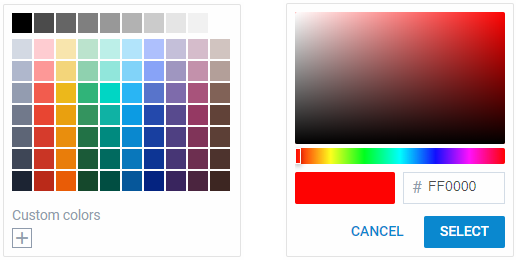
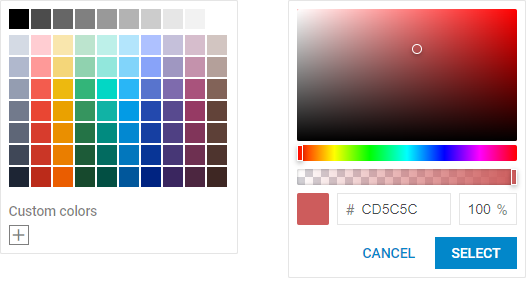
[add] transparency Colorpicker prop, update guides

diff --git a/sidebars.js b/sidebars.js
@@ -396,6 +396,7 @@ module.exports = {
                     "colorpicker/api/colorpicker_palette_config",
                     "colorpicker/api/colorpicker_paletteonly_config",
                     "colorpicker/api/colorpicker_pickeronly_config",
+                    "colorpicker/api/colorpicker_transparency_config",
                     "colorpicker/api/colorpicker_width_config",
                   ],
                 },

diff --git a/docs/colorpicker/api/colorpicker_transparency_config.md b/docs/colorpicker/api/colorpicker_transparency_config.md
@@ -1,0 +1,24 @@
+---
+sidebar_label: transparency
+title: JavaScript Colorpicker - transparency Config 
+description: You can explore the transparency config of Colorpicker in the documentation of the DHTMLX JavaScript UI library. Browse developer guides and API reference, try out code examples and live demos, and download a free 30-day evaluation version of DHTMLX Suite.
+---
+
+# transparency
+
+@short: Optional. Defines whether the transparency scale is displayed in the picker mode
+
+@signature: {'transparency?: boolean;'}
+
+@default: true
+
+@example:
+const colorpicker = new dhx.Colorpicker("colorpicker_container",{
+	transparency: false
+});
+
+@descr: 
+
+**Related sample**: [Colorpicker. Disable color transparency](https://snippet.dhtmlx.com/ewgu0aps)
+
+

diff --git a/docs/colorpicker/configuration.md b/docs/colorpicker/configuration.md
@@ -119,3 +119,18 @@ const colorpicker = new dhx.Colorpicker("colorpicker_container", {
     width: "300px"              
 });
 ~~~
+
+## Color transparency
+
+The Colorpicker component provides the possibility to set the necessary color transparency in the "picker" mode by pulling the handle on the transparency scale. This feature is enabled by default. To switch it off, set the [transparency](colorpicker/api/colorpicker_transparency_config.md) configuration option to *false*:
+
+~~~js
+const colorpicker = new dhx.Colorpicker("colorpicker", {
+    mode: "picker",
+    transparency: false
+});
+~~~
+
+![](../assets/colorpicker/colorpicker_transparency.png)
+
+**Related sample**: [Colorpicker. Disable color transparency](https://snippet.dhtmlx.com/ewgu0aps)

diff --git a/docs/colorpicker/api/api_overview.md b/docs/colorpicker/api/api_overview.md
@@ -42,4 +42,5 @@ description: You can explore the API of Colorpicker in the documentation of the 
 | [](colorpicker/api/colorpicker_palette_config.md)      | @getshort(colorpicker/api/colorpicker_palette_config.md)      |
 | [](colorpicker/api/colorpicker_paletteonly_config.md)  | @getshort(colorpicker/api/colorpicker_paletteonly_config.md)  |
 | [](colorpicker/api/colorpicker_pickeronly_config.md)   | @getshort(colorpicker/api/colorpicker_pickeronly_config.md)   |
+| [](colorpicker/api/colorpicker_transparency_config.md) | @getshort(colorpicker/api/colorpicker_transparency_config.md) |
 | [](colorpicker/api/colorpicker_width_config.md)        | @getshort(colorpicker/api/colorpicker_width_config.md)        |

diff --git a/docs/whatsnew.md b/docs/whatsnew.md
@@ -19,7 +19,7 @@ Released on October 23, 2023
 
 #### ColorPicker
 
-- The ability to adjust transparency
+- The ability to adjust the [color transparency](colorpicker/configuration.md#color-transparency)
 
 #### Grid/TreeGrid
 
@@ -33,7 +33,9 @@ Released on October 23, 2023
 
 ### Fixes
 
+- Form. Fix the absence of the bottom margin at the Container control
 - Grid/TreeGrid. Fix the work of the [bottomSplit](grid/api/grid_bottomsplit_config.md) property when there was too little data for the proper content height
+
 
 Version 8.2.4 
 ---------------
